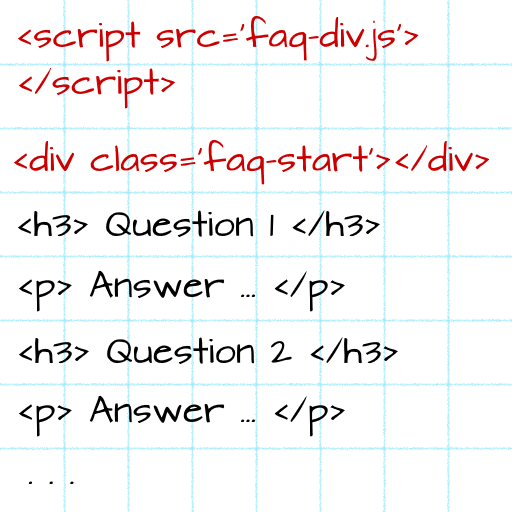
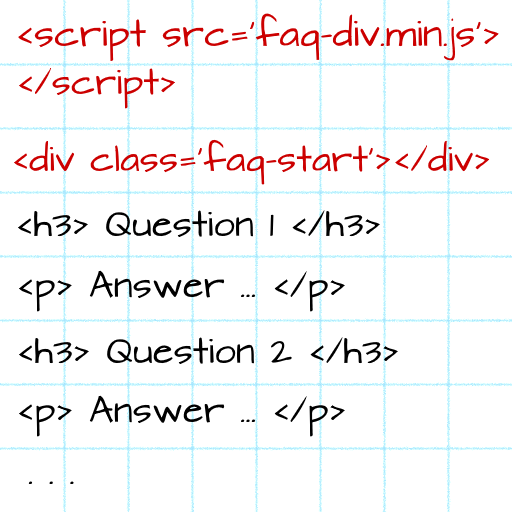
rename output faq-div.min.js

Changed region(s): [[0.3125, 0.0312, 0.9688, 0.125], [0.0312, 0.0312, 0.2812, 0.125]]

diff --git a/website/faq-div.min.js b/website/faq-div.min.js
@@ -1,0 +1,43 @@
+/* Copyright 2019-2020 Almar Klein. You need a license to use FAQ-div. Do not remove this comment. */
+(function() {
+var version='1.2';var css=".faq>.hidden{display:none;} .faq>.qa{box-sizing:border-box;width:100%;max-width:800px;padding:0.5em 1em;margin:0.5em 0;border-top:1px solid rgba(128,128,128,0.5);overflow-x:visible;overflow-y:auto;} .faq>.qa>.answer{padding:0;margin:0;margin-top:0.3em;overflow:hidden;transition:opacity 0.2s;opacity:1;} .faq>.qa.collapsed>.answer{max-height:0px;opacity:0;} .faq>.qa>h3{cursor:pointer;margin:0;position:relative;} .faq .qa>h3>.link-icon,.faq .qa>h3>.collapse-icon{position:absolute;-webkit-user-select:none;-ms-user-select:none;user-select:none;text-decoration:none;transition:color 0.2s,transform 0.2s;} .faq .qa>h3>a.collapse-icon{right:1em;color:rgba(128,128,128,0.6);transform:scale(1,1);} .faq .qa>h3>a.link-icon{right:-0.5em;color:rgba(128,128,128,0.0);} .faq>.qa>h3:hover>.collapse-icon{color:rgba(128,128,128,0.9);} .faq .qa.collapsed>h3>a.collapse-icon{transform:scale(1,-1);} .faq>.qa>h3:hover>.link-icon{color:rgba(128,128,128,0.2);} .faq>.qa>h3:hover>.link-icon:hover{color:rgba(128,128,128,0.5);} .faq>.qa>h3>.collapse-icon::before{content:'▴';} /*^▴▲△⌃*/ .faq>.qa>h3>.link-icon::before{font-size:80%;content:'🔗';} .faq>input.search{box-sizing:border-box;width:100%;max-width:800px;border-radius:2px;border:1px solid rgba(128,128,128,0.5);font-size:120%;padding:0.5em;margin:0.5em 0;transition:border-color 0.2s;} .faq>input.search:focus{outline:none;border:1px solid rgba(128,128,128,0.9);} .faq>.search-info{font-style:italic;}";
+var a={};window.addEventListener('load',b);window.addEventListener('hashchange',c);function b(){if(!document.getElementById('faq-div-css')){let d=document.createElement('style');d.type='text/css';d.id='faq-div-css';d.innerText=css;let e=false;for(let f of document.head.children){if(f.nodeName.toLowerCase()=='link'){document.head.insertBefore(d,f);e=true;break;}}
+if(!e){document.head.prepend(d);}}
+var g=[];for(let h of document.getElementsByClassName('faq-start')){g.push(h);}
+for(let h of g){if(h.children.length){continue;}
+h.classList.add('faq');let i=[];let j=h.nextSibling;while(j&&!(j.classList&&(j.classList.contains('faq-start')||j.classList.contains('faq-end')||j.classList.contains('faq')))){i.push(j);j=j.nextSibling;}
+for(let j of i){h.append(j);}}
+var k='';for(let h of document.getElementsByClassName('faq')){if(h.children.length&&!h.classList.contains('initialized')){h.classList.add('initialized');l(h,'faq'+k);k=Number(k)+1;}}
+c();}
+function c(){let m=location.hash;let n=m.indexOf(':');if(n>0&&m.startsWith('#faq')){let o=m.slice(1,n);let p=a[o];if(p){p.onhash(m.slice(n+1));}}}
+var q={};function r(h,step){if(typeof step=='undefined'){step=0;}
+var s=1;if(step==0){h.style.transition='none';}else if(step!=q[h.id]){return;}else if(step==1){h.classList.add('highlight');}else if(step==2){h.style.transition=null;s=1000;}else{h.classList.remove('highlight');delete q[h.id];return;}
+q[h.id]=step+1;window.setTimeout(r,s,h,step+1);}
+function t(headernode){var u=headernode.parentNode;u.classList.remove('hidden');if(u.classList.contains('collapsed')){u.classList.remove('collapsed');}else if(u.classList.contains('collapsible')){u.classList.add('collapsed');}}
+function l(ref_node,o){var v=ref_node.dataset;a[o]={'onhash':w};var x=[[null]];var y={};var z=[];var aa=document.createElement('input');var ab=document.createElement('div');ab.classList.add('search-info');aa.setAttribute('type','text');aa.setAttribute('placeholder',v.searchPlaceholder||'Search FAQ ...');aa.addEventListener('input',ac);aa.className='search';if(v.search=='false'){aa.style.display='none';}
+ad();ae();af();function ad(){var j=ref_node.children[0];while(j){var ag=j.nodeName.toLowerCase();if(ag=='h3'){var m='';for(let ah of j.innerText.toLowerCase().replace(new RegExp(' ','g'),'-')){if('abcdefghijklmnopqrstuvwxyz_-0123456789'.indexOf(ah)>=0){m=m+ah;}}
+var ai=m;for(let aj=1;aj<1000;aj++){if(typeof y[m]=='undefined'){break;}
+else{m=ai+aj;}}
+y[m]={'hash':m};x.push([m,j]);}else if(ag=='h2'||ag=='h1'||ag=='hr'){x.push([null,j]);}else{let ak=x[x.length-1];ak.push(j);}
+j=j.nextSibling;}}
+function ae(){for(let al of x){let m=al[0];if(m!==null){y[m].headertext=al[1].textContent.toLowerCase();y[m].text='';for(let aj=2;aj<al.length;aj++){y[m].text+=al[aj].textContent.toLowerCase()+'\n';}}}}
+function af(){ref_node.innerHTML='';ref_node.appendChild(aa);ref_node.appendChild(ab);for(let al of x){let m=al[0];if(m!==null){let am=document.createElement('div');am.classList.add('qa');am.setAttribute('id',m);var an=al[1];am.appendChild(an);let ao=document.createElement('div');ao.classList.add('answer');for(let aj=2;aj<al.length;aj++){ao.append(al[aj]);}
+am.appendChild(ao);if(v.collapse!='false'){am.classList.add('collapsible');am.classList.add('collapsed');an.setAttribute('onclick','faqdiv.toggle(this);');let ap=document.createElement('a');ap.className='collapse-icon';an.appendChild(ap);}
+if(v.link!='false'){let aq=document.createElement('a');aq.className='link-icon';aq.setAttribute('href','#'+o+':'+m);aq.setAttribute('onclick','event.stopPropagation();');an.appendChild(aq);}
+ref_node.appendChild(am);y[m].node=am;}else{let ar=document.createElement('div');for(let aj=1;aj<al.length;aj++){ar.append(al[aj]);}
+ref_node.appendChild(ar);z.push(ar)}}}
+function as(){var i=[];for(let j of ref_node.getElementsByClassName('qa searchresult')){i.push(j);}
+for(let j of i){ref_node.removeChild(j);}}
+function w(m){var u=y[m];if(u){u.node.classList.remove('hidden');u.node.classList.remove('collapsed');u.node.scrollIntoView();r(u.node);}else if(m){aa.value=m.replace(new RegExp('-','g'),' ');ac();}}
+function ac(){var at='ljbsdfaljhsbdkey';at;var au=aa.value.toLowerCase().replace(',','');var av=[];for(let aw of au.split(' ')){if(aw.length>0){av.push(aw);}}
+var ax=' how can i , and , or , is ';var ay=[];for(let az=0;az<=av.length;az++){for(let ba=az+1;ba<=av.length;ba++){let bb=av.slice(az,ba).join(' ');if(ax.indexOf(' '+bb+' ')<0){ay.push([ba-az,bb]);}}}
+ay.sort(function(a,b){return b[0]-a[0];});if(ay.length==0){as();ab.innerHTML='';for(let m in y){let u=y[m];u.node.classList.remove('hidden');if(u.node.classList.contains('collapsible')){u.node.classList.add('collapsed');}}
+for(let j of z){j.classList.remove('hidden');}}else{for(let m in y){let u=y[m];u.node.classList.add('hidden');u.node.classList.remove('collapsed');}
+for(let j of z){j.classList.add('hidden');}
+var bc=[];for(let m in y){let u=y[m];let bd=0;for(let n=0;n<ay.length;n++){let k=ay[n][0];let be=ay[n][1];if(u.headertext.indexOf(be)>=0){bd+=5*k;}
+if(u.text.indexOf(be)>=0){bd+=1*k;}}
+bc.push([bd,u.node]);}
+bc.sort(function(a,b){return b[0]-a[0];});as();var bf=0;for(let n=0;n<bc.length;n++){let bd=bc[n][0];let j=bc[n][1];j.classList.add('hidden');if(bd>0&&n<16){let bg=j.cloneNode(true);bg.classList.add('searchresult');ref_node.appendChild(bg);bf+=1;bg.classList.remove('hidden');if(bg.classList.remove('collapsible')){if(n<5){bg.classList.remove('collapsed');}else{bg.classList.add('collapsed');}}}}
+let bh=v.searchInfo||'COUNT results';ab.innerHTML=bh.replace('COUNT',bf).replace('SUBJECT',aa.value)+'<br>';}}}
+window.faqdiv={'version':version,'toggle':t,'init':b};
+})();

diff --git a/website/examples/minimal.html b/website/examples/minimal.html
@@ -4,7 +4,7 @@
 This examples's code is so small that the HTML is barely valid :P
 <br><br>
 
-<script src='faq-div.js'></script>
+<script src='faq-div.min.js'></script>
 
 <div class='faq-start'></div>
 

diff --git a/website/examples/animated.html b/website/examples/animated.html
@@ -3,7 +3,7 @@
 <head>
     <meta charset="utf-8">
     <title>FAQ-div example</title>
-    <script src='faq-div.js'></script>
+    <script src='faq-div.min.js'></script>
 </head>
 <body>
 

diff --git a/website/examples/bubblegum.html b/website/examples/bubblegum.html
@@ -3,7 +3,7 @@
 <head>
     <meta charset="utf-8">
     <title>FAQ-div example</title>
-    <script src='faq-div.js'></script>
+    <script src='faq-div.min.js'></script>
 </head>
 <body>
 

diff --git a/website/examples/centered.html b/website/examples/centered.html
@@ -3,7 +3,7 @@
 <head>
     <meta charset="utf-8">
     <title>FAQ-div example</title>
-    <script src='faq-div.js'></script>
+    <script src='faq-div.min.js'></script>
 </head>
 <body>
 

diff --git a/website/examples/configure.html b/website/examples/configure.html
@@ -3,7 +3,7 @@
 <head>
     <meta charset="utf-8">
     <title>FAQ-div example</title>
-    <script src='faq-div.js'></script>
+    <script src='faq-div.min.js'></script>
 </head>
 <body>
 

diff --git a/website/examples/crisp.html b/website/examples/crisp.html
@@ -3,7 +3,7 @@
 <head>
     <meta charset="utf-8">
     <title>FAQ-div example</title>
-    <script src='faq-div.js'></script>
+    <script src='faq-div.min.js'></script>
 </head>
 <body>
 

diff --git a/website/examples/dark.html b/website/examples/dark.html
@@ -3,7 +3,7 @@
 <head>
     <meta charset="utf-8">
     <title>FAQ-div example</title>
-    <script src='faq-div.js'></script>
+    <script src='faq-div.min.js'></script>
 </head>
 <body>
 

diff --git a/website/examples/narrow.html b/website/examples/narrow.html
@@ -3,7 +3,7 @@
 <head>
     <meta charset="utf-8">
     <title>FAQ-div example</title>
-    <script src='faq-div.js'></script>
+    <script src='faq-div.min.js'></script>
 </head>
 <body>
 

diff --git a/website/examples/sections.html b/website/examples/sections.html
@@ -3,7 +3,7 @@
 <head>
     <meta charset="utf-8">
     <title>FAQ-div example</title>
-    <script src='faq-div.js'></script>
+    <script src='faq-div.min.js'></script>
 </head>
 <body>
 

diff --git a/website/examples/shadows.html b/website/examples/shadows.html
@@ -3,7 +3,7 @@
 <head>
     <meta charset="utf-8">
     <title>FAQ-div example</title>
-    <script src='faq-div.js'></script>
+    <script src='faq-div.min.js'></script>
 </head>
 <body>
 

diff --git a/website/examples/totheleft.html b/website/examples/totheleft.html
@@ -3,7 +3,7 @@
 <head>
     <meta charset="utf-8">
     <title>FAQ-div example</title>
-    <script src='faq-div.js'></script>
+    <script src='faq-div.min.js'></script>
 </head>
 <body>
 
